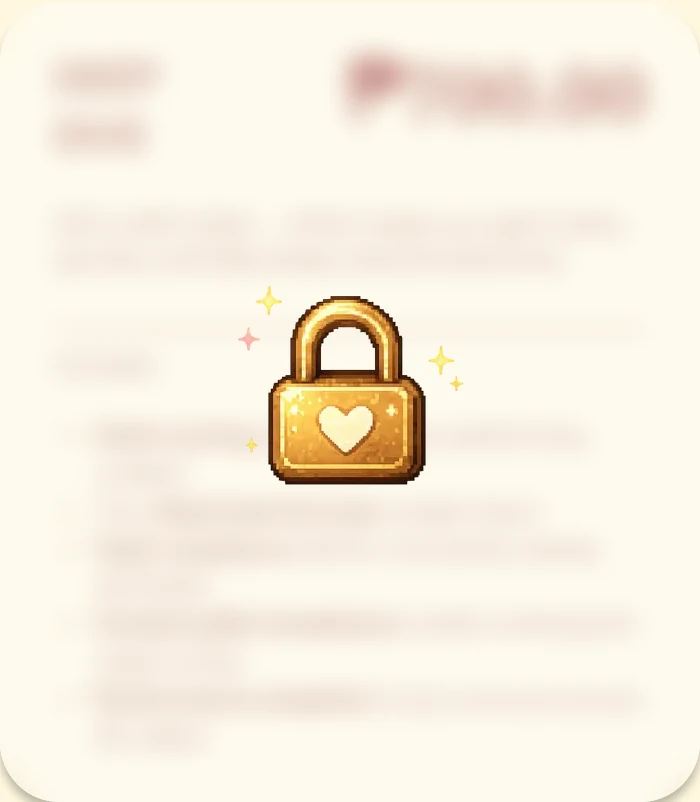
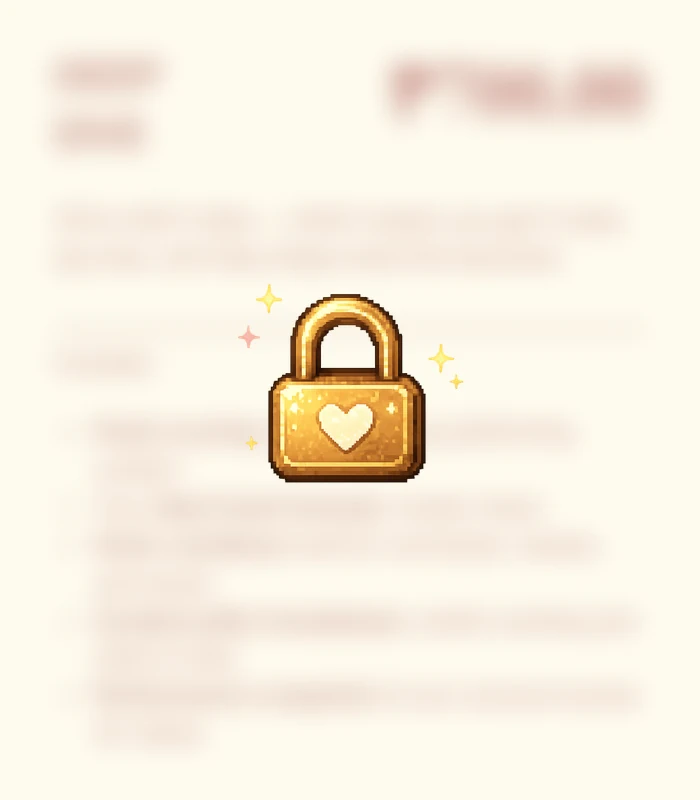
style(pricing): gold-frame cards and clean locked-card bakes
- swap the soft drop shadow for the chunky gold border used by the How
  and FeatureScene cards: 3px gold border + hard gold bottom lip
- drop the inset highlight/ring on the maroon featured card, which read
  as a hazy smudge over the dark surface
- re-bake the locked teaser cards with filter:blur over a solid card
  background (not backdrop-blur) and square corners, fixing the pale rim
  that the page-sampling blur + rounded corners baked into the edges
- add scripts/rebake-locked-cards.cjs to regenerate the bakes

diff --git a/src/components/landing/Pricing.tsx b/src/components/landing/Pricing.tsx
@@ -7,12 +7,13 @@ import PricingCard from '@/components/ui/PricingCard';
  * during beta; the flanking cards tease the full-price tier behind a frosted
  * lock.
  *
- * The locked cards are pre-blurred screenshots, not blurred DOM — the teaser
+ * The locked cards are pre-blurred renders, not blurred DOM — the teaser
  * copy and price must not exist in the HTML, where inspect-element /
- * Ctrl+F / crawlers would read straight through a CSS backdrop blur. To
- * change them, restore the card markup from git history (PricingCard's
- * `locked` overlay, removed in the same commit that added these images),
- * tweak it, and re-capture at 2x.
+ * Ctrl+F / crawlers would read straight through a CSS backdrop blur. The
+ * bakes come from an isolated Playwright page that blurs the content with
+ * filter:blur over a solid card background (NOT backdrop-blur, which samples
+ * the page behind the card and smears a pale rim into the edges). To change
+ * them, edit and re-run scripts/rebake-locked-cards.cjs.
  */
 
 const betaDeepDive = {
@@ -50,12 +51,12 @@ const betaDeepDive = {
 
 function LockedCard({ src }: { src: string }): React.ReactElement {
   return (
-    <div className="w-[350px] max-w-full overflow-hidden rounded-[30px] shadow-[0px_4px_4px_0px_rgba(0,0,0,0.25)]">
+    <div className="border-brand-gold w-[350px] max-w-full overflow-hidden rounded-[30px] border-[3px] shadow-[0_5px_0_var(--color-brand-gold-shadow)]">
       <Image
         src={src}
         alt="Locked plan — coming soon"
         width={350}
-        height={401}
+        height={400}
         className="h-auto w-full"
       />
     </div>

diff --git a/src/components/ui/PricingCard.tsx b/src/components/ui/PricingCard.tsx
@@ -33,7 +33,7 @@ export default function PricingCard({
 
   return (
     <div
-      className={`relative flex w-[350px] max-w-full flex-col rounded-[30px] shadow-[0px_4px_4px_0px_rgba(0,0,0,0.25)] ${
+      className={`border-brand-gold relative flex w-[350px] max-w-full flex-col rounded-[30px] border-[3px] shadow-[0_5px_0_var(--color-brand-gold-shadow)] ${
         CARD_PALETTE[variant]
       } ${
         featured